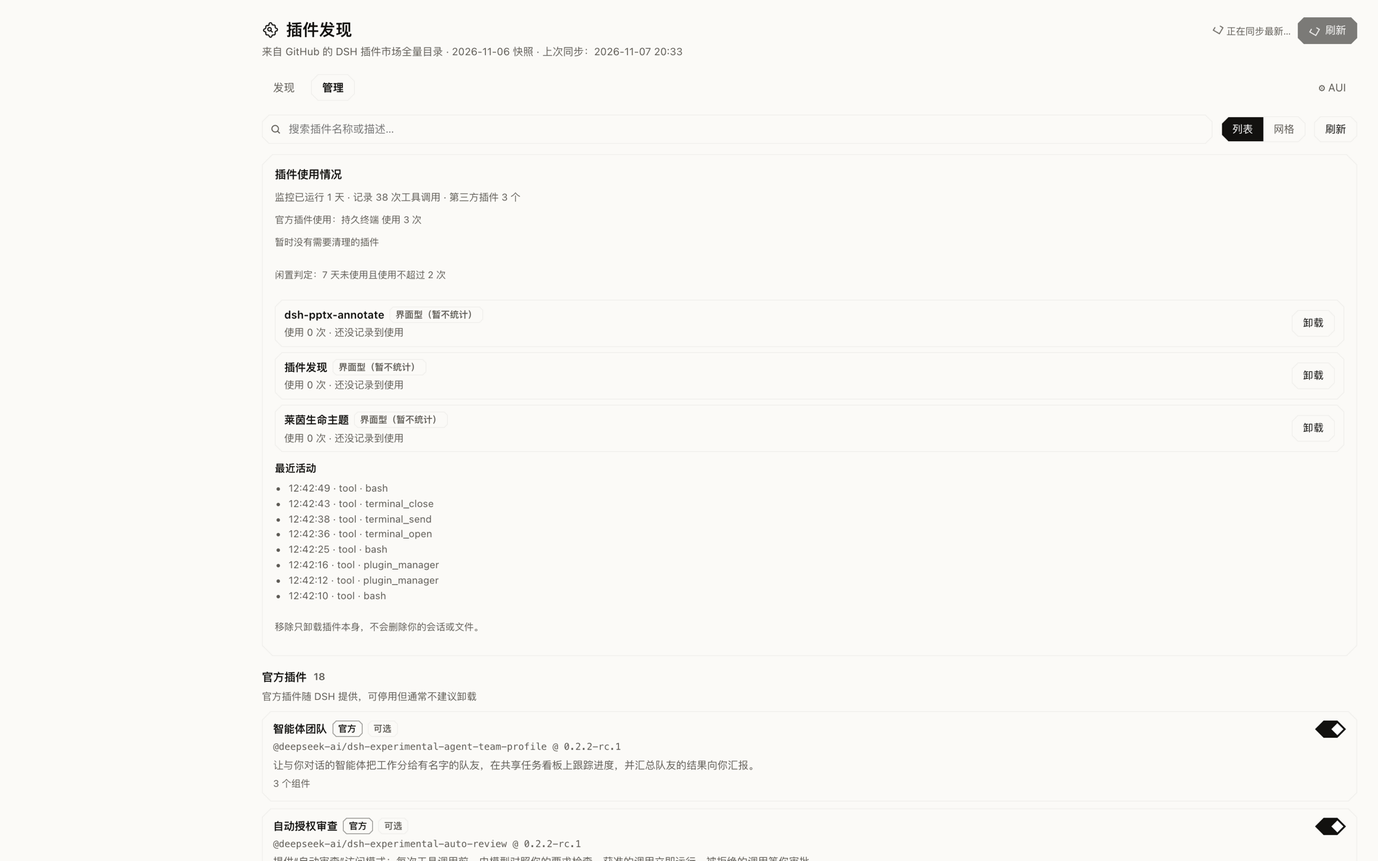
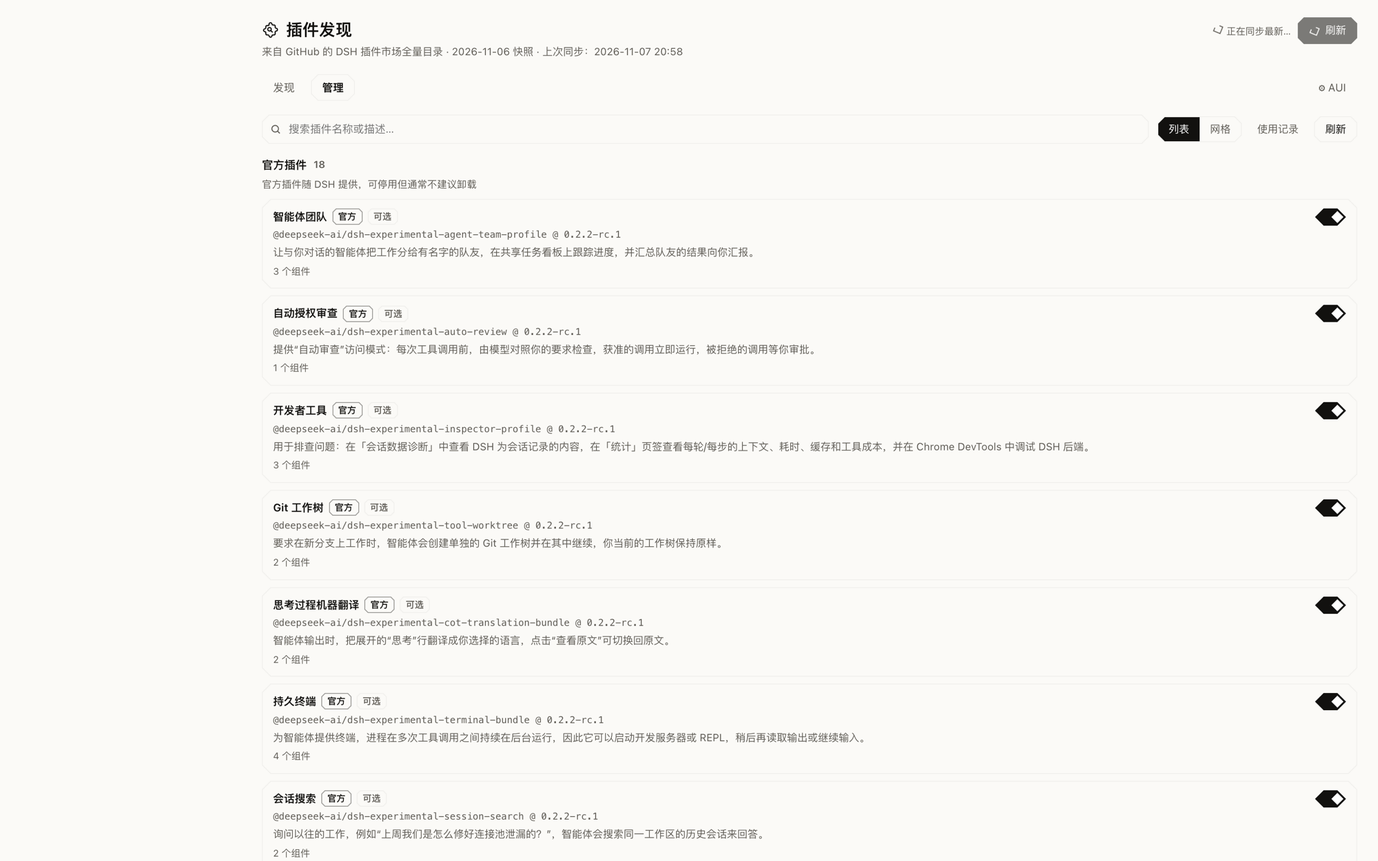
design: 重排插件使用情况的界面层级，让管理列表回到主角
问题：上一版把「插件使用情况」做成平铺大卡片，用户进管理页的主要目的（看/开关/卸载插件）
被一块零使用率的统计挤下去，界面元素没有主次，也把界面型插件（主题等）放上大版面强调无法统计。

调整（按渐进披露 / 设置页设计原则）：
- 使用数据收进工具栏「使用记录」按钮，明细改成弹窗，主列表回归首屏
- 第三方工具型插件在卡片内用一行小字展示使用次数/最近使用；界面型插件不显示
- 只有真的存在「装了但很少用」的插件时，列表上方才出现可展开的提醒条（含逐个卸载）
- 界面型插件不再占据独立板块，仅在记录弹窗底部一行说明
- 版本 1.8.0；中英 README 同步新的交互说明与截图（usage.png / usage-modal.png）

diff --git a/client.js b/client.js
@@ -168,6 +168,14 @@ window.__ModuleLoader__.load({
       'usage.empty': '当前没有可统计的第三方插件',
       'usage.uninstallHint': '移除只卸载插件本身，不会删除你的会话或文件。',
       'usage.officialLine': '官方插件使用：{items}',
+      'usage.open': '使用记录',
+      'usage.dialogTitle': '插件使用记录',
+      'usage.idleBanner': '{count} 个插件装了但很少用',
+      'usage.idleShow': '看看',
+      'usage.idleHide': '收起',
+      'usage.idleTag': '很少使用',
+      'usage.officialTitle': '官方插件使用',
+      'usage.note': '界面型插件（主题、预览器）不统计使用次数，也不会进入清理提醒。',
       'time.justNow': '刚刚',
       'time.minutesAgo': '{count} 分钟前',
       'time.hoursAgo': '{count} 小时前',
@@ -320,6 +328,14 @@ window.__ModuleLoader__.load({
       'usage.empty': 'No measurable third-party plugins yet',
       'usage.uninstallHint': 'Removing only uninstalls the plugin; your sessions and files stay.',
       'usage.officialLine': 'Official plugin usage: {items}',
+      'usage.open': 'Usage log',
+      'usage.dialogTitle': 'Plugin usage log',
+      'usage.idleBanner': '{count} plugin(s) installed but rarely used',
+      'usage.idleShow': 'Show',
+      'usage.idleHide': 'Hide',
+      'usage.idleTag': 'Rarely used',
+      'usage.officialTitle': 'Official plugin usage',
+      'usage.note': 'UI plugins (themes, previewers) are not counted and never enter the cleanup list.',
       'time.justNow': 'just now',
       'time.minutesAgo': '{count} min ago',
       'time.hoursAgo': '{count} h ago',
@@ -427,19 +443,20 @@ window.__ModuleLoader__.load({
 .pd-seg{display:flex;border:1px solid var(--dsw-alias-border-l1,#e4e8f0);border-radius:8px;overflow:hidden}
 .pd-seg button{border:none;background:transparent;color:var(--dsw-alias-label-secondary,#667085);padding:5px 12px;font:inherit;font-size:12px;cursor:pointer}
 .pd-seg button.on{background:var(--dsw-alias-brand-primary,#2F6FED);color:#fff}
-.pd-usage{border:1px solid var(--dsw-alias-border-l1,#e4e8f0);border-radius:12px;padding:12px 14px;background:var(--dsw-alias-bg-layer-1,#fff);margin-top:12px;display:flex;flex-direction:column;gap:8px}
-.pd-usage h3{margin:0;font-size:13px;font-weight:600}
-.pd-usage .hint{margin:0;font-size:11.5px;color:var(--dsw-alias-label-secondary,#667085)}
-.pd-usage-idle-title{font-weight:600;color:var(--dsw-alias-state-warn-primary,#f79009);font-size:12.5px}
+.pd-linkbtn{border:none;background:transparent;color:var(--dsw-alias-label-secondary,#667085);font:inherit;font-size:12px;cursor:pointer;padding:4px 8px;border-radius:6px}
+.pd-linkbtn:hover{background:var(--dsw-alias-bg-layer-2,#f4f6fa);color:var(--dsw-alias-label-primary,#101828)}
+.pd-idle-banner{border:1px solid color-mix(in srgb,var(--dsw-alias-state-warn-primary,#f79009) 32%,transparent);border-left:3px solid var(--dsw-alias-state-warn-primary,#f79009);background:color-mix(in srgb,var(--dsw-alias-state-warn-primary,#f79009) 5%,transparent);border-radius:10px;padding:8px 12px;margin:6px 0 2px;display:flex;flex-direction:column;gap:6px}
+.pd-idle-head{display:flex;gap:10px;align-items:center;flex-wrap:wrap;justify-content:space-between}
+.pd-idle-head b{font-size:12.5px}
+.pd-idle-list{display:flex;flex-direction:column;gap:6px;border-top:1px dashed var(--dsw-alias-border-l1,#e4e8f0);padding-top:8px}
+.pd-idle-row{display:flex;gap:8px;align-items:center;justify-content:space-between;flex-wrap:wrap}
+.pd-idle-main{display:flex;gap:8px;align-items:center;flex-wrap:wrap;font-size:12px}
+.pd-usage-inline{font-size:11px;color:var(--dsw-alias-label-secondary,#667085);margin-top:2px}
 .pd-usage-list{display:flex;flex-direction:column;gap:6px}
-.pd-usage-row{display:flex;gap:10px;align-items:center;justify-content:space-between;border:1px solid var(--dsw-alias-border-l1,#e4e8f0);border-radius:8px;padding:7px 10px}
-.pd-usage-row.warn{border-color:color-mix(in srgb,var(--dsw-alias-state-warn-primary,#f79009) 45%,transparent)}
-.pd-usage-main{min-width:0;display:flex;flex-direction:column;gap:2px}
-.pd-usage-title{display:flex;gap:6px;align-items:center;flex-wrap:wrap;font-weight:600;font-size:12.5px}
-.pd-usage-meta{font-size:11.5px;color:var(--dsw-alias-label-secondary,#667085)}
-.pd-usage-actions{display:flex;gap:6px;align-items:center;flex:0 0 auto}
 .pd-usage-activity b{font-size:12px}
 .pd-usage-activity ul{margin:4px 0 0;padding-left:16px;font-size:11.5px;color:var(--dsw-alias-label-secondary,#667085)}
+.pd-modal-line{display:flex;flex-direction:column;gap:3px;margin-top:12px;font-size:12.5px}
+.pd-usage-modal{width:560px}
 .pd-manage-section{margin-top:14px}
 .pd-manage-section h3{margin:0 0 4px;font-size:13px;font-weight:600;display:flex;gap:8px;align-items:center}
 .pd-manage-section p.hint{margin:0 0 8px;font-size:11.5px;color:var(--dsw-alias-label-secondary,#667085)}
@@ -1312,6 +1329,8 @@ window.__ModuleLoader__.load({
       const t = createTranslator(props);
       const [bundles, setBundles] = React.useState(null);
       const [usage, setUsage] = React.useState(null);
+      const [showUsage, setShowUsage] = React.useState(false);
+      const [showIdle, setShowIdle] = React.useState(false);
       const [error, setError] = React.useState(null);
       const [loading, setLoading] = React.useState(true);
       const [mode, setMode] = React.useState('list');
@@ -1419,6 +1438,7 @@ window.__ModuleLoader__.load({
             ),
             h('div', { className: 'pd-bundle-name' }, `${bundle.name}${bundle.version ? ` @ ${bundle.version}` : ''}`),
             description ? h('div', { className: 'pd-bundle-desc' }, description) : null,
+            thirdPartyUsageLine(bundle),
             Array.isArray(bundle.rows) && bundle.rows.length > 0 ? h('div', { className: 'pd-note' }, t('manage.rows', { count: bundle.rows.length })) : null,
           ),
           h(
@@ -1443,74 +1463,97 @@ window.__ModuleLoader__.load({
       };
 
       const allUsagePlugins = Array.isArray(usage?.plugins) ? usage.plugins : [];
-      const usagePlugins = allUsagePlugins.filter((plugin) => plugin.official !== true);
+      const usageById = new Map(allUsagePlugins.map((plugin) => [plugin.name, plugin]));
       const officialUsage = allUsagePlugins.filter((plugin) => plugin.official === true && plugin.uses > 0).sort((left, right) => right.uses - left.uses).slice(0, 6);
       const usageIdle = Array.isArray(usage?.idle) ? usage.idle : [];
       const monitoredDays = usage?.startedAt ? Math.max(1, Math.ceil((Date.now() - Date.parse(usage.startedAt)) / 86400000)) : 0;
       const idleDays = usage?.rules?.idleDays ?? 7;
       const maxIdleUses = usage?.rules?.maxUses ?? 2;
-      const usageStatusLabel = (status) =>
-        status === 'tools' ? t('usage.status.tools') : status === 'ui' ? t('usage.status.ui') : t('usage.status.unknown');
-      const renderUsageRow = (plugin) => h(
+
+      const usageTextFor = (bundle) => {
+        const record = usageById.get(bundle.name);
+        if (record === undefined || record.status !== 'tools') return null;
+        if (record.idle) return t('usage.idleTag');
+        if (record.uses <= 0) return null;
+        return `${t('usage.uses', { count: record.uses })} · ${relativeTime(record.lastUsed, t)}`;
+      };
+      const thirdPartyUsageLine = (bundle) => {
+        const text = bundle.official !== true ? usageTextFor(bundle) : null;
+        return text === null ? null : h('div', { className: 'pd-usage-inline' }, text);
+      };
+
+      const renderIdleRow = (plugin) => h(
         'div',
-        { className: `pd-usage-row${plugin.idle ? ' warn' : ''}`, key: plugin.name },
+        { className: 'pd-idle-row', key: plugin.name },
         h(
           'div',
-          { className: 'pd-usage-main' },
-          h(
-            'div',
-            { className: 'pd-usage-title' },
-            h('span', null, plugin.title || plugin.name),
-            h('span', { className: 'pd-tag' }, usageStatusLabel(plugin.status)),
-            plugin.idle ? h('span', { className: 'pd-tag warn' }, t('usage.idleTitle')) : null,
-          ),
-          h('div', { className: 'pd-usage-meta' }, `${t('usage.uses', { count: plugin.uses })} · ${relativeTime(plugin.lastUsed, t)}`),
+          { className: 'pd-idle-main' },
+          h('b', null, plugin.title || plugin.name),
+          h('span', { className: 'pd-muted' }, `${t('usage.uses', { count: plugin.uses })} · ${relativeTime(plugin.lastUsed, t)}`),
         ),
-        h(
-          'div',
-          { className: 'pd-usage-actions' },
-          plugin.removable
-            ? confirming === plugin.name
-              ? h('button', { className: 'pd-btn danger', disabled: busy.length > 0, onClick: () => void remove(plugin.name) }, busy === plugin.name ? t('manage.removing') : t('manage.confirmRemove'))
-              : h('button', { className: 'pd-btn', disabled: busy.length > 0, onClick: () => setConfirming(plugin.name) }, t('manage.remove'))
-            : null,
-          confirming === plugin.name ? h('button', { className: 'pd-btn', onClick: () => setConfirming('') }, t('manage.cancel')) : null,
-        ),
+        plugin.removable
+          ? confirming === plugin.name
+            ? h('button', { className: 'pd-btn danger', disabled: busy.length > 0, onClick: () => void remove(plugin.name) }, busy === plugin.name ? t('manage.removing') : t('manage.confirmRemove'))
+            : h('button', { className: 'pd-btn', disabled: busy.length > 0, onClick: () => setConfirming(plugin.name) }, t('manage.remove'))
+          : null,
+        confirming === plugin.name ? h('button', { className: 'pd-btn', onClick: () => setConfirming('') }, t('manage.cancel')) : null,
       );
-      const usageSection = usage === null
-        ? null
-        : h(
-            'section',
-            { className: 'pd-usage' },
-            h('h3', null, t('usage.title')),
-            h('p', { className: 'hint' }, t('usage.summary', { days: monitoredDays, records: usage.records ?? 0, plugins: usagePlugins.length })),
-            officialUsage.length > 0
-              ? h('div', { className: 'pd-note' }, t('usage.officialLine', { items: officialUsage.map((plugin) => `${plugin.title} ${t('usage.uses', { count: plugin.uses })}`).join(' · ') }))
-              : null,
-            usageIdle.length > 0
-              ? h(
-                  React.Fragment,
-                  null,
-                  h('div', { className: 'pd-usage-idle-title' }, t('usage.idleTitle')),
-                  h('p', { className: 'hint' }, t('usage.idleHint')),
-                  h('div', { className: 'pd-usage-list' }, usageIdle.map(renderUsageRow)),
-                )
-              : h('div', { className: 'pd-note' }, t('usage.idleEmpty')),
-            h('p', { className: 'pd-note' }, t('usage.rule', { days: idleDays, maxUses: maxIdleUses })),
-            usagePlugins.length === 0
-              ? h('div', { className: 'pd-note' }, t('usage.empty'))
-              : h('div', { className: 'pd-usage-list' }, usagePlugins.map(renderUsageRow)),
+
+      const idleBanner = usageIdle.length > 0
+        ? h(
+            'div',
+            { className: 'pd-idle-banner' },
             h(
               'div',
-              { className: 'pd-usage-activity' },
-              h('b', null, t('usage.recent')),
-              Array.isArray(usage.recent) && usage.recent.length > 0
-                ? h('ul', null, usage.recent.slice(0, 8).map((record, index) => h('li', { key: `${record.at}-${index}` }, `${String(record.at ?? '').slice(11, 19)} · ${record.kind} · ${record.name}`)))
-                : h('div', { className: 'pd-note' }, t('usage.noActivity')),
+              { className: 'pd-idle-head' },
+              h('b', null, t('usage.idleBanner', { count: usageIdle.length })),
+              h('span', { className: 'pd-muted' }, t('usage.idleHint')),
+              h('button', { className: 'pd-btn', onClick: () => setShowIdle((value) => !value) }, showIdle ? t('usage.idleHide') : t('usage.idleShow')),
             ),
-            h('p', { className: 'pd-note' }, t('usage.uninstallHint')),
-          );
+            showIdle ? h('div', { className: 'pd-idle-list' }, usageIdle.map(renderIdleRow)) : null,
+          )
+        : null;
 
+      const usageDialog = showUsage
+        ? h(
+            'div',
+            {
+              className: 'pd-modal-mask',
+              onClick: (event) => {
+                if (event.target === event.currentTarget) setShowUsage(false);
+              },
+            },
+            h(
+              'div',
+              { className: 'pd-modal pd-usage-modal', role: 'dialog', 'aria-modal': true },
+              h('h2', null, t('usage.dialogTitle')),
+              usage === null
+                ? h('div', { className: 'pd-note' }, t('loading'))
+                : h(
+                    React.Fragment,
+                    null,
+                    h('p', { className: 'desc' }, t('usage.summary', { days: monitoredDays, records: usage.records ?? 0, plugins: allUsagePlugins.filter((plugin) => plugin.official !== true).length })),
+                    officialUsage.length > 0
+                      ? h('div', { className: 'pd-modal-line' }, h('b', null, t('usage.officialTitle')), h('div', { className: 'pd-note' }, officialUsage.map((plugin) => `${plugin.title} · ${t('usage.uses', { count: plugin.uses })}`).join(' · ')))
+                      : null,
+                    usageIdle.length > 0
+                      ? h('div', { className: 'pd-modal-line' }, h('b', null, t('usage.idleTitle')), h('div', { className: 'pd-usage-list' }, usageIdle.map(renderIdleRow)))
+                      : null,
+                    h('p', { className: 'pd-note' }, t('usage.rule', { days: idleDays, maxUses: maxIdleUses })),
+                    h(
+                      'div',
+                      { className: 'pd-usage-activity' },
+                      h('b', null, t('usage.recent')),
+                      Array.isArray(usage.recent) && usage.recent.length > 0
+                        ? h('ul', null, usage.recent.slice(0, 12).map((record, index) => h('li', { key: `${record.at}-${index}` }, `${String(record.at ?? '').slice(11, 19)} · ${record.kind} · ${record.name}`)))
+                        : h('div', { className: 'pd-note' }, t('usage.noActivity')),
+                    ),
+                    h('p', { className: 'pd-note' }, t('usage.note')),
+                  ),
+              h('div', { className: 'pd-modal-actions' }, h('button', { className: 'pd-btn primary', onClick: () => setShowUsage(false) }, t('aui.close'))),
+            ),
+          )
+        : null;
       return h(
         'div',
         { className: 'pd-manage' },
@@ -1529,12 +1572,12 @@ window.__ModuleLoader__.load({
             h('button', { className: mode === 'list' ? 'on' : '', onClick: () => setMode('list') }, t('manage.list')),
             h('button', { className: mode === 'grid' ? 'on' : '', onClick: () => setMode('grid') }, t('manage.grid')),
           ),
+          h('button', { className: 'pd-linkbtn', onClick: () => setShowUsage(true) }, t('usage.open')),
           h('button', { className: 'pd-btn', onClick: () => void load(), disabled: loading }, t('manage.refresh')),
         ),
         notice ? h('div', { className: 'pd-note', style: { color: 'var(--dsw-alias-state-success-primary,#12B76A)' } }, notice) : null,
         error ? h('div', { className: 'pd-card pd-err', style: { marginTop: 10 } }, t('manage.error', { error })) : null,
         loading && bundles === null ? h('div', { className: 'pd-state' }, h('i', { className: 'pd-spin' }), ' ', t('manage.loading')) : null,
-        usageSection,
         h(
           'section',
           { className: 'pd-manage-section' },
@@ -1548,12 +1591,14 @@ window.__ModuleLoader__.load({
           'section',
           { className: 'pd-manage-section' },
           h('h3', null, t('manage.installed'), h('span', { className: 'pd-muted' }, thirdParty.length)),
+          idleBanner,
           h('p', { className: 'hint' }, t('manage.installedHint')),
           thirdParty.length === 0
             ? h('div', { className: 'pd-note' }, t('manage.empty'))
             : h('div', { className: mode === 'grid' ? 'pd-bundle-grid' : 'pd-bundle-list' }, thirdParty.map(renderBundle)),
         ),
         h('p', { className: 'pd-note', style: { marginTop: 12 } }, t('manage.uninstallHint')),
+        usageDialog,
       );
     }
 

diff --git a/README.en.md b/README.en.md
@@ -2,15 +2,14 @@
 
 [中文](README.md) | [**English**](README.en.md)
 
-## Latest v1.7.0 (2026-11-07)
+## Latest v1.8.0 (2026-11-07)
 
-[Release notes](https://github.com/HiddenPuppy/dsh-plugin-discovery/releases/tag/v1.7.0) · What changed:
+[Release notes](https://github.com/HiddenPuppy/dsh-plugin-discovery/releases/tag/v1.8.0) · This release redesigns how plugin usage is presented:
 
-- **New plugin usage tracking**: the Host keeps a local log of plugin usage. The **Manage** tab now shows how often each third-party plugin was used and when it was last used; plugins installed but rarely used are listed separately and can be uninstalled in one click — AUI can find them again when you actually need them.
-- **Official vs third-party**: official plugins are shown for reference only; only removable third-party plugins enter the cleanup list.
-- **Removed “Browse similar plugins”**: the previous version just put the plugin name into the search box, which was not really a “similar” feature. It is offline until a better implementation exists.
-- Note: pure UI plugins (themes, previewers) cannot be measured yet and are labelled “UI plugin (not counted yet)”.
-- The catalog currently lists **24,505** plugins (2026-11-06 snapshot), **639** of which support one-click install from npm
+- **No more a big flat block**: usage data moved behind a **Usage log** button in the Manage toolbar, so the plugin list stays the main content
+- **Inline usage**: a third-party tool plugin shows one subtle line in its own card (“3 uses · 2 days ago”)
+- **Only when needed**: a suggestion strip appears above the list only when a plugin is really installed but rarely used, expandable to uninstall
+- **UI plugins stay out of the way**: themes and previewers are not counted and are only mentioned in one line at the bottom of the usage dialog, never mis-flagged as unused
 
 > A **Plugin Discovery** page under the DSH sidebar (below *Automations*): the complete GitHub-hosted DSH plugin marketplace, with 24k+ plugins, a one-sentence Chinese description for every project, GitHub README links and one-click installation.
 
@@ -63,15 +62,25 @@ The repo ships a 36-case golden set: 26 real needs and 10 everyday chats that mu
 
 ## Plugin usage (local log)
 
-![Plugin usage](docs/usage.png)
+![Manage tab](docs/usage.png)
 
-The top of the **Manage** tab shows local plugin usage:
+Usage no longer takes a large block of the page; it has three layers:
+
+1. **Entry**: the **Usage log** button in the Manage toolbar
+2. **Inline**: a third-party tool plugin shows one subtle line in its card (uses / last used); UI plugins show nothing
+3. **Reminder**: a strip appears above the list only when a plugin is genuinely installed but rarely used, expandable to uninstall
+
+Click **Usage log** for the details:
+
+![Usage log](docs/usage-modal.png)
+
+The log records:
 
 - **What is recorded**: every tool call (name, time, owning plugin), installs/removals, and which plugins AUI suggested
 - **How ownership is resolved**: the Host scans installed plugin packages for declared tool names and maps them back to plugins; official packages are read from the local installation for reference
-- **Cleanup reminder**: a third-party plugin enters the “installed but rarely used” list when it has been seen for 7 days, has not been used in 7 days and has at most 2 uses; uninstall it with one click, and AUI can suggest it again when relevant
+- **Cleanup reminder**: a third-party plugin surfaces as “installed but rarely used” when it has been seen for 7 days, has not been used in 7 days and has at most 2 uses; uninstall it with one click, and AUI can suggest it again when relevant
 - **Local only**: the log lives at `~/.dsh/cache/plugin-discovery/usage.jsonl` and is never uploaded
-- **Limit**: pure UI plugins (themes, previewers) cannot be measured yet and are labelled “UI plugin (not counted yet)” instead of being mistaken for unused
+- **UI plugins**: not counted and never enter the cleanup list (one line at the bottom of the dialog, no dedicated block)
 
 ## Plugin management
 
@@ -172,6 +181,7 @@ MIT
 
 ## Changelog
 
+- **1.8.0** — Redesigns the usage presentation: a toolbar entry, one inline line per tool plugin, and a reminder strip only when something is actually idle; UI plugins no longer take up space. Data and statistics are unchanged.
 - **1.7.0** — Adds local plugin usage tracking: tool calls, installs/removals and AUI suggestions are logged; the Manage tab shows uses and last use per third-party plugin and lists “installed but rarely used” plugins for one-click cleanup, with AUI able to re-find them later. Removes the misleading “Browse similar plugins” action.
 - **1.6.0** — AUI is faster and more accurate: “Browse similar plugins” now opens the real category (no exact-name search), polling drops from 4 s to 1 s, and the judge is more robust; on the 36-case golden set, 25/26 needs matched with 0/10 false positives (97.2%). README gains a plain-language GUI vs AUI explainer and a similar-plugins screenshot.
 - **1.5.0** — AUI moves from keyword matching to “local recall + model judgement”: the model stays silent unless a candidate genuinely helps with enough confidence; quiet defaults are 240 s cooldown, 4 per hour and 2 per session. Adds a 36-case golden set with an eval script (94.4% accuracy, 0/10 false positives).

diff --git a/README.md b/README.md
@@ -2,15 +2,14 @@
 
 [**中文**](README.md) | [English](README.en.md)
 
-## 最新版本 v1.7.0（2026-11-07）
+## 最新版本 v1.8.0（2026-11-07）
 
-[Release 说明](https://github.com/HiddenPuppy/dsh-plugin-discovery/releases/tag/v1.7.0) · 本次改动：
+[Release 说明](https://github.com/HiddenPuppy/dsh-plugin-discovery/releases/tag/v1.8.0) · 这次主要重新设计了「插件使用情况」的呈现方式：
 
-- **新增「插件使用情况」**：在本机记录插件的使用日志，在「管理」页能看到每个第三方插件被用了多少次、最近一次是什么时候；装了却很少用的插件会被单独列出来，可以一键卸载——下次真正需要时，AUI 会再帮你把它找回来
-- **官方 / 第三方分开统计**：官方插件只做参考显示；只有可卸载的第三方插件才会进入「清理提醒」
-- **移除了「看看同类插件」**：上一版的实现名不副实（只是把插件名填进搜索框），这次先下线，等有更好的做法再回归
-- 说明：纯界面类插件（主题、预览器这类）暂时统计不到使用次数，会明确标注「界面型（暂不统计）」
-- 当前收录 **24,505** 个插件（2026-11-06 快照），其中 **639** 个支持 npm 源一键安装
+- **不再平铺一大块**：使用数据收进「管理」页工具栏的「使用记录」入口，列表重新成为页面主角
+- **行内展示**：第三方工具型插件会在自己的卡片里带一行小字「使用 3 次 · 2 天前」，不额外占版面
+- **只有需要时才出现**：真的存在「装了但很少用」的插件时，列表上方才会冒出一条提醒，可展开直接卸载
+- **界面型插件不再占版面**：主题、预览器这类不统计使用次数，只在记录弹窗底部用一行字说明，不会被误判成闲置
 
 > 在 DSH 左侧栏「自动化任务」下方加一个「插件发现」页面：把 GitHub 上社区维护的 **DSH 插件市场全量目录**接进 Harness，2.4 万+ 插件一览无余，每个项目都配一句中文简介，还能直接点「安装」装进当前 DSH。
 
@@ -63,15 +62,25 @@
 
 ## 插件使用情况（本地日志）
 
-![插件使用情况](docs/usage.png)
+![管理页](docs/usage.png)
 
-「管理」页顶部会显示一份本地的插件使用情况：
+使用情况不再占据一大块版面，而是分三层：
+
+1. **入口**：「管理」页工具栏里的「使用记录」按钮
+2. **行内**：第三方工具型插件在自己的卡片里带一行小字（使用次数 / 最近使用时间）；界面型插件不显示
+3. **提醒**：真的存在「装了但很少用」的插件时，安装列表上方才会出现一条提醒，展开可以逐个卸载
+
+点「使用记录」看到的是明细：
+
+![使用记录](docs/usage-modal.png)
+
+会记录：
 
 - **记录什么**：每次工具调用（工具名、时间、属于哪个插件）、安装 / 移除动作、AUI 推荐过哪些插件
 - **怎么知道属于谁**：在本机扫描已安装插件包里的工具声明，把工具名对回插件；官方插件只读扫描本机安装目录，用来做参考
-- **清理提醒**：第三方插件「首次记录满 7 天 + 最近 7 天没用 + 总使用不超过 2 次」时，会进入「装了但很少用」列表，可以直接卸载；卸载后 AUI 仍会在下次相关需求时重新推荐它
+- **清理提醒**：第三方插件「首次记录满 7 天 + 最近 7 天没用 + 总使用不超过 2 次」时，会进入「装了但很少用」提醒，可以直接卸载；卸载后 AUI 仍会在下次相关需求时重新推荐它
 - **只在本机**：日志写在 `~/.dsh/cache/plugin-discovery/usage.jsonl`，不会上传
-- **限制**：纯界面类插件（主题、预览器）暂时统计不到使用次数，会明确标注「界面型（暂不统计）」，不会误判成闲置
+- **界面型插件**：不统计使用次数，也不会进入清理提醒（弹窗底部一行说明，不再单独占版面）
 
 ## 插件管理
 
@@ -172,6 +181,7 @@ MIT
 
 ## 更新记录
 
+- **1.8.0** — 重新设计「插件使用情况」的呈现：从整块平铺改为「工具栏入口 + 卡片内一行小字 + 仅在确有闲置时出现的提醒」，界面型插件不再占版面；数据结构与统计逻辑不变。
 - **1.7.0** — 新增本地插件使用监控：记录工具调用 / 安装 / 移除 / AUI 推荐，在「管理」页显示每个第三方插件的使用次数与最近使用时间；「用了很少且很久没用」的插件会进入清理提醒，可一键卸载，下次需要时 AUI 会再找回。移除名不副实的「看看同类插件」。
 - **1.6.0** — AUI 更快更准：「看看同类插件」改为按分类浏览（不再用插件名精确搜索）、推荐卡片轮询从 4 秒降到 1 秒、模型判断更稳；黄金集 36 条，25/26 推对、0/10 误报（97.2%）；README 增加 GUI / AUI 通俗说明与同类插件截图。
 - **1.5.0** — AUI 从纯文本匹配升级为「本地召回 + 模型静默判断」：模型判断不值得或置信度不足时保持安静，频率控制默认冷却 240 秒 / 每小时 4 次 / 每会话 2 次；新增 36 条黄金集与评测脚本，当前准确率 94.4%、负例误报 0/10。
